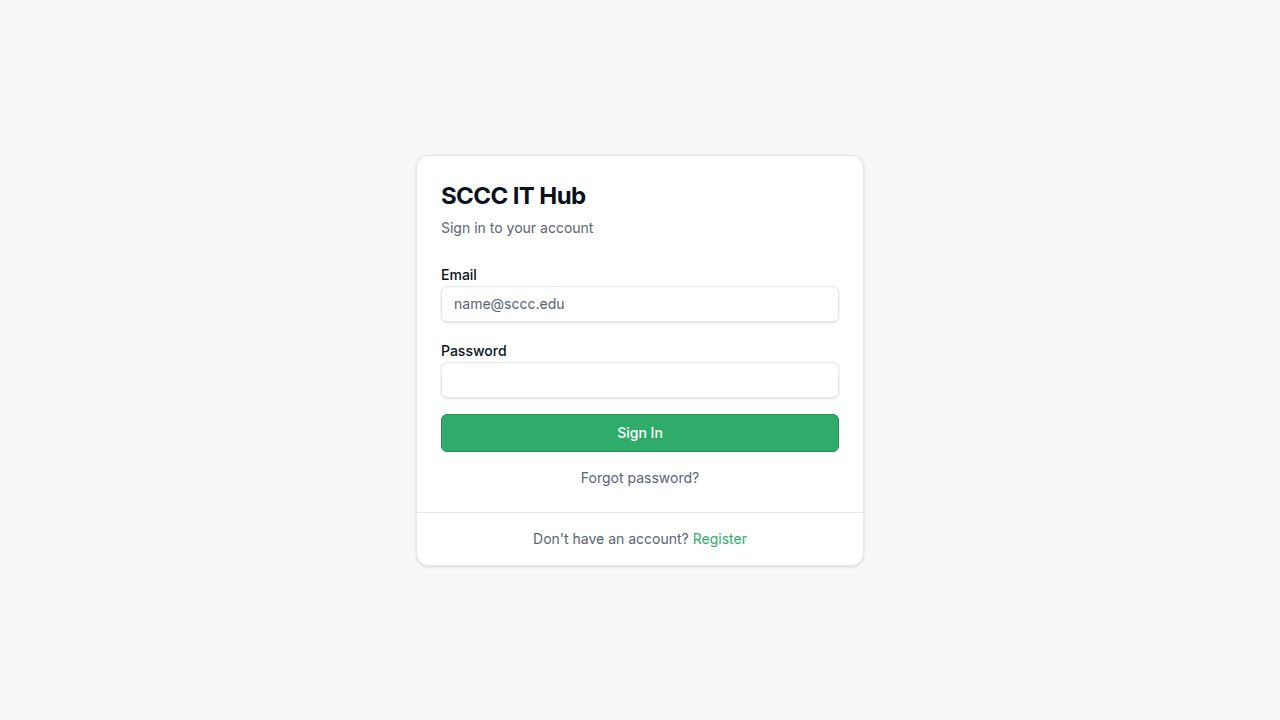
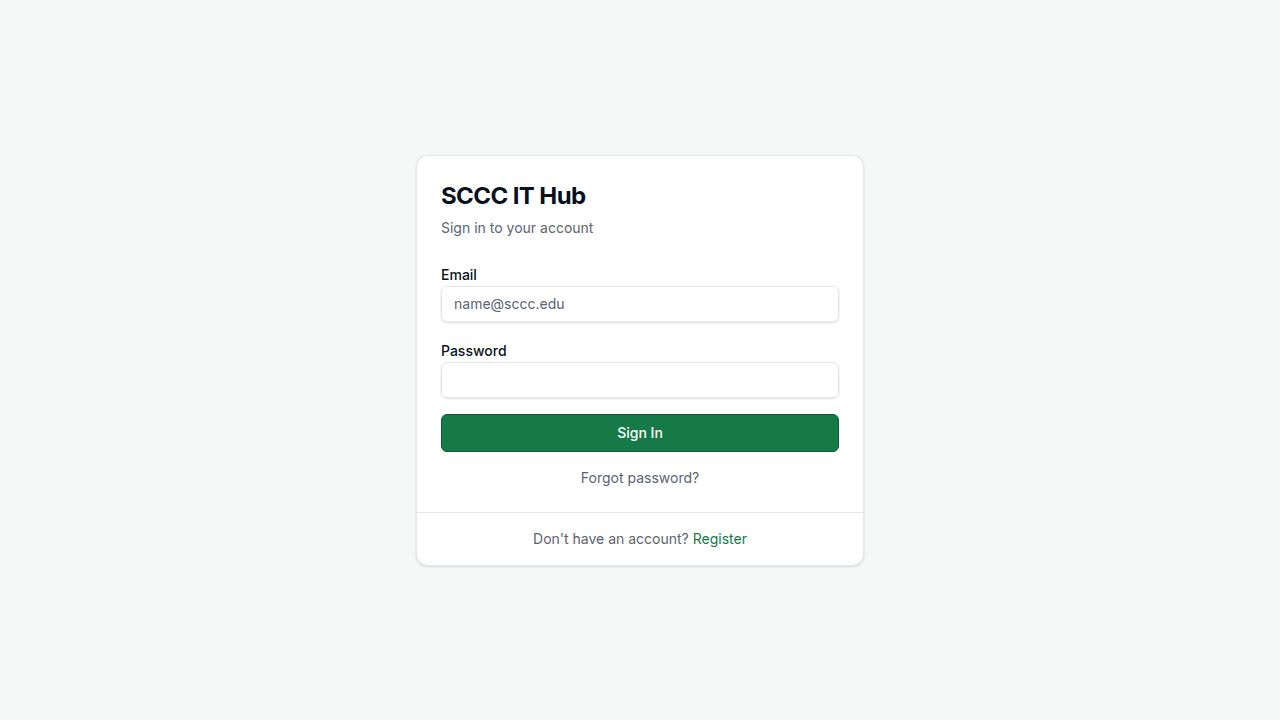
Add a monitoring page to display Grafana dashboards
Create a new monitoring page with an embedded Grafana dashboard, including reload and open-in-new-tab functionality, and add it to the application's routing and navigation.

Replit-Commit-Author: Agent
Replit-Commit-Session-Id: 559628a7-4dd7-4cc9-b277-312d5d694605
Replit-Commit-Checkpoint-Type: full_checkpoint
Replit-Commit-Event-Id: 69708e5c-32cf-41ef-aff3-c2744c0ea1b2
Replit-Commit-Screenshot-Url: https://storage.googleapis.com/screenshot-production-us-central1/b658475c-21f9-4400-a334-29e9cca05970/559628a7-4dd7-4cc9-b277-312d5d694605/EV7GStL
Replit-Helium-Checkpoint-Created: true

Changed region(s): [[0.3438, 0.55, 0.6562, 0.6417], [0.5312, 0.7333, 0.5625, 0.7639]]

diff --git a/artifacts/it-reporting/src/pages/monitoring/index.tsx b/artifacts/it-reporting/src/pages/monitoring/index.tsx
@@ -1,0 +1,56 @@
+import { useState } from "react";
+import { Gauge, ExternalLink, RefreshCw, Info } from "lucide-react";
+import { Button } from "@/components/ui/button";
+
+const GRAFANA_URL =
+  (import.meta.env.VITE_GRAFANA_URL as string | undefined)?.replace(/\/$/, "") ||
+  "http://10.0.0.22:3000";
+
+export default function Monitoring() {
+  const [reloadKey, setReloadKey] = useState(0);
+
+  return (
+    <div className="space-y-4">
+      <div className="flex items-start justify-between gap-4 flex-wrap">
+        <div>
+          <h1 className="text-3xl font-bold tracking-tight flex items-center gap-2">
+            <Gauge className="h-7 w-7" /> Monitoring
+          </h1>
+          <p className="text-sm text-muted-foreground mt-1">
+            Live Grafana dashboards from the on-prem monitoring server.
+          </p>
+        </div>
+        <div className="flex items-center gap-2">
+          <Button variant="outline" size="sm" onClick={() => setReloadKey((k) => k + 1)}>
+            <RefreshCw className="h-4 w-4 mr-2" /> Reload
+          </Button>
+          <Button asChild variant="outline" size="sm">
+            <a href={GRAFANA_URL} target="_blank" rel="noreferrer">
+              <ExternalLink className="h-4 w-4 mr-2" /> Open in new tab
+            </a>
+          </Button>
+        </div>
+      </div>
+
+      <div className="flex items-start gap-2 rounded-md border border-border bg-muted/40 px-3 py-2 text-xs text-muted-foreground">
+        <Info className="h-4 w-4 shrink-0 mt-0.5" />
+        <span>
+          The dashboard loads directly from <code className="font-mono">{GRAFANA_URL}</code> in your
+          browser, so you must be on the SCCC network (or VPN) to see it. If it appears blank, Grafana
+          must allow embedding (set <code className="font-mono">allow_embedding = true</code> in
+          grafana.ini) and you may need to be signed in to Grafana in another tab — use{" "}
+          <span className="font-medium">Open in new tab</span> as a fallback.
+        </span>
+      </div>
+
+      <div className="rounded-lg border border-border overflow-hidden bg-card">
+        <iframe
+          key={reloadKey}
+          src={GRAFANA_URL}
+          title="Grafana Dashboard"
+          className="w-full h-[calc(100vh-15rem)] min-h-[480px] border-0"
+        />
+      </div>
+    </div>
+  );
+}

diff --git a/artifacts/it-reporting/src/App.tsx b/artifacts/it-reporting/src/App.tsx
@@ -39,6 +39,7 @@ import NewProject from "@/pages/projects/new";
 import ProjectDetail from "@/pages/projects/[id]";
 import StrategicObjectivesIndex from "@/pages/strategic-objectives/index";
 import AzureVms from "@/pages/azure-vms/index";
+import Monitoring from "@/pages/monitoring/index";
 import AnalyticsPage from "@/pages/analytics/index";
 import DesignSystem from "@/pages/design-system/index";
 
@@ -113,6 +114,7 @@ function Router() {
       <Route path="/network" component={() => <ProtectedRoute component={Network} />} />
       <Route path="/network/visualize" component={() => <ProtectedRoute component={NetworkVisualize} />} />
       <Route path="/azure-vms" component={() => <ProtectedRoute component={AzureVms} />} />
+      <Route path="/monitoring" component={() => <ProtectedRoute component={Monitoring} />} />
       
       <Route path="/after-action" component={() => <ProtectedRoute component={AfterAction} />} />
       <Route path="/after-action/new" component={() => <ProtectedRoute component={NewAfterAction} />} />

diff --git a/artifacts/it-reporting/src/components/layout.tsx b/artifacts/it-reporting/src/components/layout.tsx
@@ -55,6 +55,7 @@ import {
   Zap,
   Cloud,
   BarChart3,
+  Gauge,
 } from "lucide-react";
 
 type NavItem = { href: string; label: string; icon: React.ComponentType<any>; match?: (loc: string) => boolean };
@@ -272,6 +273,7 @@ export function Layout({ children }: { children: React.ReactNode }) {
     items: [
       { href: "/network", label: "Network", icon: Network },
       { href: "/azure-vms", label: "Azure VMs", icon: Cloud },
+      { href: "/monitoring", label: "Monitoring", icon: Gauge },
       { href: "/processes", label: "Process Library", icon: BookOpen },
       { href: "/ai-report", label: "AI Assistant", icon: Sparkles },
     ],

diff --git a/.agents/memory/MEMORY.md b/.agents/memory/MEMORY.md
@@ -1,1 +1,1 @@
-- [it-reporting frontend](it-reporting-frontend.md) — Tailwind v4 CSS-first theming; whole app re-themes via shadcn `:root` tokens in index.css; SCCC "Saints green" brief zip is canonical palette (not sccc.edu colors); action emerald darkened for AA.
+- [it-reporting frontend](it-reporting-frontend.md) — SCCC theming: whole app re-themes via shadcn `:root` tokens in index.css; brief-zip "Saints green" is canonical palette.